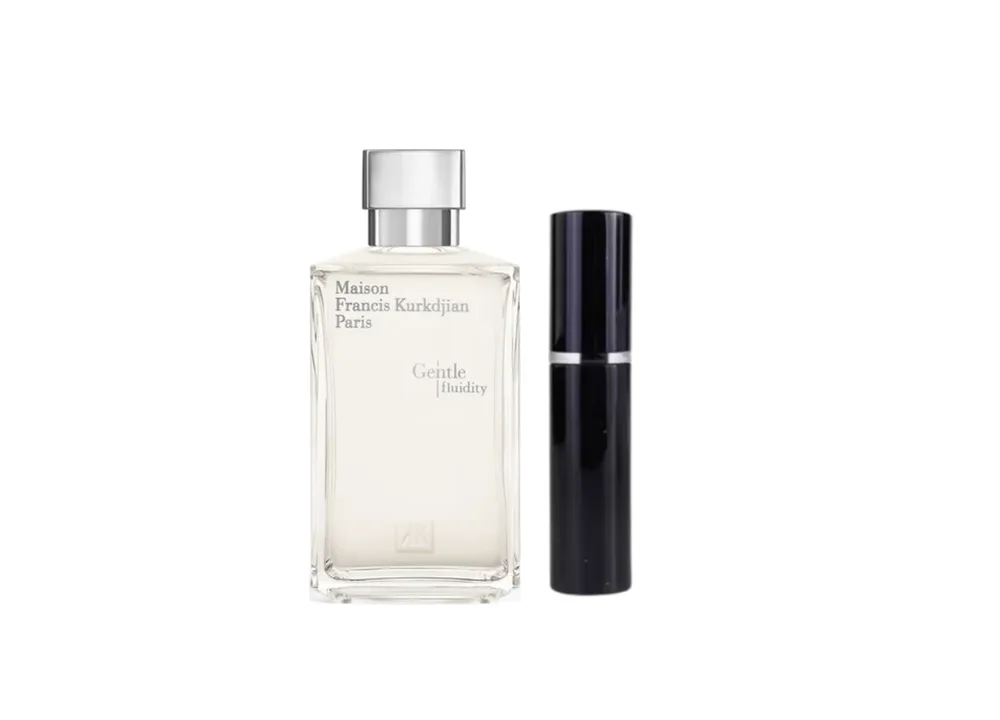
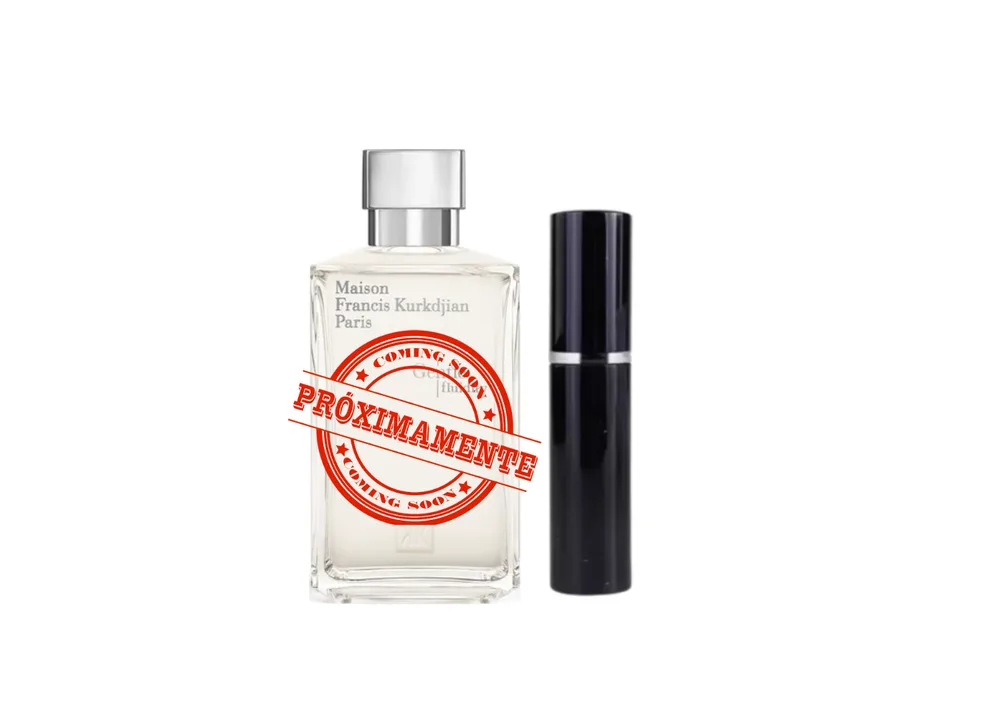
fix: update Gentle Fluidity Silver client images with Próximamente stamp

Changed region(s): [[0.279, 0.4583, 0.558, 0.7333]]

diff --git a/productos.js b/productos.js
@@ -89,7 +89,7 @@
     { id: 76, name: "Mangonifiscent", brand: "Unique'e Luxury", category: "nicho", gender: "unisex", notes: "Mango, azafrán y madera de roble: el mango espléndido.", description: "Decant premium de lujo. Original auténtico, enviado en vial de cristal con atomizador. Calidad garantizada y precio por mililitro imbatible.", fullSizes: {}, decantSizes: {1:25,2:39,3:59,5:89,10:179,30:449}, fullImage: "", decantImage: "", cardImage: "", featured: false, badge: null, badgeText: "" },
     { id: 77, name: "Lionora", brand: "Mind Games", category: "nicho", gender: "unisex", notes: "Frambuesa, rosa y vainilla: la partida de ajedrez dulce.", description: "Decant premium de lujo. Original auténtico, enviado en vial de cristal con atomizador. Calidad garantizada y precio por mililitro imbatible.", fullSizes: {}, decantSizes: {1:25,2:39,3:59,5:95,10:189,30:475}, fullImage: "", decantImage: "", cardImage: "", featured: false, badge: null, badgeText: "" },
     { id: 136, name: "Red Wine Brown Sugar", brand: "Bohoboco", category: "nicho", gender: "unisex", notes: "Vino tinto y azúcar morena: dulce, especiado y envolvente.", description: "Decant premium de lujo. Original auténtico, enviado en vial de cristal con atomizador. Calidad garantizada y precio por mililitro imbatible.", fullSizes: {}, decantSizes: {1:25,2:45,3:65,5:99,10:199,20:355}, fullImage: "", decantImage: "", cardImage: "", featured: false, badge: null, badgeText: "" },
-    { id: 78, name: "Gentle Fluidity Silver", brand: "Maison Francis Kurkdjian", category: "nicho", gender: "unisex", notes: "Enebro, almizcle y vainilla: fluidez plateada, fresca y limpia.", description: "Decant premium de lujo. Original auténtico, enviado en vial de cristal con atomizador. Calidad garantizada y precio por mililitro imbatible.", fullSizes: {}, decantSizes: {1:25,2:35,3:49,5:75,10:149,30:375}, fullImage: "", decantImage: "", cardImage: "img/perfumes_optimized/GENTLE FLUIDITY SILVER client.webp", sizeImages: {"1": "img/perfumes_optimized/GENTLE FLUIDITY SILVER client.webp", "2": "img/perfumes_optimized/GENTLE FLUIDITY SILVER client.webp", "3": "img/perfumes_optimized/GENTLE FLUIDITY SILVER client.webp", "5": "img/perfumes_optimized/GENTLE FLUIDITY SILVER decant premium 5ml.webp", "10": "img/perfumes_optimized/GENTLE FLUIDITY SILVER decant premium 10 ml.webp", "30": "img/perfumes_optimized/GENTLE FLUIDITY SILVER 30ml.webp", "5_premium": "img/perfumes_optimized/GENTLE FLUIDITY SILVER decant premium 5ml.webp", "10_premium": "img/perfumes_optimized/GENTLE FLUIDITY SILVER decant premium 10 ml.webp"}, featured: false, badge: null, badgeText: "" },
+    { id: 78, name: "Gentle Fluidity Silver", brand: "Maison Francis Kurkdjian", category: "nicho", gender: "unisex", notes: "Enebro, almizcle y vainilla: fluidez plateada, fresca y limpia.", description: "Decant premium de lujo. Original auténtico, enviado en vial de cristal con atomizador. Calidad garantizada y precio por mililitro imbatible.", fullSizes: {}, decantSizes: {1:25,2:35,3:49,5:75,10:149,30:375}, fullImage: "", decantImage: "", cardImage: "img/perfumes_optimized/GENTLE FLUIDITY SILVER.webp", sizeImages: {"1": "img/perfumes_optimized/GENTLE FLUIDITY SILVER.webp", "2": "img/perfumes_optimized/GENTLE FLUIDITY SILVER.webp", "3": "img/perfumes_optimized/GENTLE FLUIDITY SILVER.webp", "5": "img/perfumes_optimized/GENTLE FLUIDITY SILVER decant premium 5ml.webp", "10": "img/perfumes_optimized/GENTLE FLUIDITY SILVER decant premium 10 ml.webp", "30": "img/perfumes_optimized/GENTLE FLUIDITY SILVER 30ml.webp", "5_premium": "img/perfumes_optimized/GENTLE FLUIDITY SILVER decant premium 5ml.webp", "10_premium": "img/perfumes_optimized/GENTLE FLUIDITY SILVER decant premium 10 ml.webp"}, featured: false, badge: null, badgeText: "" },
     { id: 79, name: "Grand Soir", brand: "Maison Francis Kurkdjian", category: "nicho", gender: "unisex", notes: "Ámbar, vainilla y benjuí: la gran noche dorada y cálida.", description: "Decant premium de lujo. Original auténtico, enviado en vial de cristal con atomizador. Calidad garantizada y precio por mililitro imbatible.", fullSizes: {}, decantSizes: {1:25,2:35,3:49,5:75,10:149,30:375}, fullImage: "", decantImage: "", cardImage: "", featured: true, badge: null, badgeText: "" },
     { id: 80, name: "Aqua Celestia Cologne Forte", brand: "Maison Francis Kurkdjian", category: "nicho", gender: "unisex", notes: "Lima, bergamota y almizcle: el agua celestial, fresca y brillante.", description: "Decant premium de lujo. Original auténtico, enviado en vial de cristal con atomizador. Calidad garantizada y precio por mililitro imbatible.", fullSizes: {}, decantSizes: {1:25,2:35,3:45,5:69,10:139,30:349}, fullImage: "", decantImage: "", cardImage: "", featured: false, badge: null, badgeText: "" },
     { id: 81, name: "Gris Charnel EDP", brand: "BDK Parfums", category: "nicho", gender: "unisex", notes: "Cardamomo, té negro y sándalo: la piel gris, cremosa y sensual.", description: "Decant premium de lujo. Original auténtico, enviado en vial de cristal con atomizador. Calidad garantizada y precio por mililitro imbatible.", fullSizes: {}, decantSizes: {1:19,2:29,3:45,5:59,10:119,30:299}, fullImage: "", decantImage: "", cardImage: "", featured: false, badge: null, badgeText: "" },
@@ -276,7 +276,7 @@
     75: { main: "img/perfumes_optimized/OUT OF REACH.webp", sizes: { "10_premium": "img/perfumes_optimized/OUT OF REACH decant premium 10 ml.webp", "30": "img/perfumes_optimized/OUT OF REACH 30ml.webp", "5_premium": "img/perfumes_optimized/OUT OF REACH decant premium 5ml.webp" } },
     76: { main: "img/perfumes_optimized/MANGONIFISCENT.webp", sizes: { "10_premium": "img/perfumes_optimized/MANGONIFISCENT decant premium 10 ml.webp", "30": "img/perfumes_optimized/MANGONIFISCENT 30ml.webp", "5_premium": "img/perfumes_optimized/MANGONIFISCENT decant premium 5ml.webp" } },
     77: { main: "img/perfumes_optimized/LIONORA.webp", sizes: { "10_premium": "img/perfumes_optimized/LIONORA decant premium 10 ml.webp", "30": "img/perfumes_optimized/LIONORA 30ml.webp", "5_premium": "img/perfumes_optimized/LIONORA decant premium 5ml.webp" } },
-    78: { main: "img/perfumes_optimized/GENTLE FLUIDITY SILVER client.webp", sizes: { "10_premium": "img/perfumes_optimized/GENTLE FLUIDITY SILVER decant premium 10 ml.webp", "30": "img/perfumes_optimized/GENTLE FLUIDITY SILVER 30ml.webp", "5_premium": "img/perfumes_optimized/GENTLE FLUIDITY SILVER decant premium 5ml.webp" } },
+    78: { main: "img/perfumes_optimized/GENTLE FLUIDITY SILVER.webp", sizes: { "10_premium": "img/perfumes_optimized/GENTLE FLUIDITY SILVER decant premium 10 ml.webp", "30": "img/perfumes_optimized/GENTLE FLUIDITY SILVER 30ml.webp", "5_premium": "img/perfumes_optimized/GENTLE FLUIDITY SILVER decant premium 5ml.webp" } },
     79: { main: "img/perfumes_optimized/GRAND SOIR.webp", sizes: { "10_premium": "img/perfumes_optimized/GRAND SOIR decant premium 10 ml.webp", "30": "img/perfumes_optimized/GRAND SOIR 30ml.webp", "5_premium": "img/perfumes_optimized/GRAND SOIR decant premium 5ml.webp" } },
     80: { main: "img/perfumes_optimized/AQUA CELESTIA COLOGNE FORTE.webp", sizes: { "10_premium": "img/perfumes_optimized/AQUA CELESTIA COLOGNE FORTE decant premium 10 ml.webp", "30": "img/perfumes_optimized/AQUA CELESTIA COLOGNE FORTE 30ml.webp", "5_premium": "img/perfumes_optimized/AQUA CELESTIA COLOGNE FORTE decant premium 5ml.webp" } },
     81: { main: "img/perfumes_optimized/GRIS CHARNEL EDP.webp", sizes: { "10_premium": "img/perfumes_optimized/GRIS CHARNEL EDP decant premium 10 ml.webp", "30": "img/perfumes_optimized/GRIS CHARNEL EDP 30ml.webp", "5_premium": "img/perfumes_optimized/GRIS CHARNEL EDP decant premium 5ml.webp" } },

diff --git a/sw.js b/sw.js
@@ -7,7 +7,7 @@
  * DEBE bumpear VERSION o los clientes se quedan con código viejo.
  */
 const RELEASE = "20260917";
-const VERSION = "fo-v83-combo-dock-fix";
+const VERSION = "fo-v84-gfs-stamped-images";
 const CORE_CACHE = `core-${VERSION}`;
 const IMG_CACHE = `img-${VERSION}`;
 const FONT_CACHE = `font-${VERSION}`;
